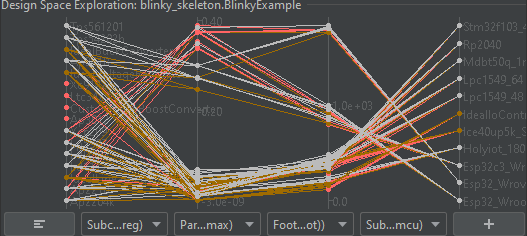
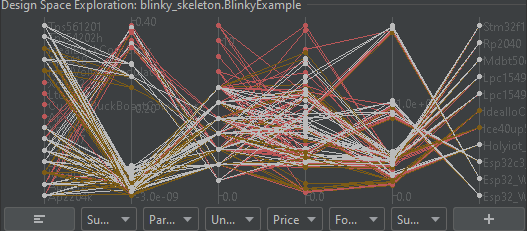
update pcp

diff --git a/getting-started.md b/getting-started.md
@@ -526,10 +526,11 @@ Let's now set up and run the search, and let's actually search through all combi
 2. Add the microcontroller search by **right-clicking the new `mcu` and select Search subclasses of IoController**.
    - Note that this adds a dimension to the search space.
 3. Make sure the footprint area and current draw objective functions are still there.
-4. Then, **re-run the search**.
+4. Add two new objective functions: **right click on the design root, and select Add objective price**. Repeat the same for **Add objective unproven count**.
+5. Then, **re-run the search**.
    - Because it's searching all combinations of regulators and microcontrollers, this may take a while.
    - Even though we previously specified a refinement for voltage regulator, the search configuration takes priority - so this does scan over all voltage regulators
-5. If we **plot the microcontroller and regulator**, we can see which combinations work:  
+6. If we **plot the microcontroller and regulator**, we can see which combinations work:  
    ![Microcontroller and regulator](docs/ide_dse/plot_mcu_vs_reg.png)
 
 > Here, we're plotting the microcontroller and voltage regulator classes, which are non-numeric.
@@ -542,11 +543,17 @@ Parallel coordinates plot is another visualization method commonly used for visu
 Let's use this to examine choices of microcontroller:
 1. **Switch to the parallel coordinates plot using the switch plots button: ![Switch plots button](docs/intellij_icons/toolWindowMessages_dark.svg)**.
 2. The initial plot starts with one axis, but let's plot the regulator, current draw, area, and microcontroller (4 axes).
-   **Add three more axes using the + button**.
-3. **Configure the axes left-to-right as the regulator class, maximum current draw, area, and microcontroller class**.
+   **Add five more axes using the + button**.
+3. **Configure the axes left-to-right as the regulator class, maximum current draw, unproven count, price, area, and microcontroller class**.
    The resulting plot should look like:  
    ![Parallel plot regulator and microcontroller](docs/ide_dse/pcp_vreg_mcu.png)  
    Each individual design is a line, going through the points at the values of each axis.
+   It's definitely a very crowded chart!
+   > _Unproven_ counts the number of unproven blocks (blocks that have not been tested working or fixed) in the design.
+   > Lower is better, since it means fewer blocks are being built in hardware for the first time.
+
+   > _Price_ calculates the total price of components for the design.
+   > This has some limitations: price data may be out of date or incomplete (though missing prices will be logged on the console during a DSE run), and only reflects price of components.
 4. Let's say we want a ESP32, a microcontroller module with built-in WiFi.
    **Select the Esp32_Wroom_32 point on the bottom right** to select all designs going through that point:  
    ![Parallel plot regulator and microcontroller](docs/ide_dse/pcp_vreg_mcu_esp32.png)  
@@ -555,15 +562,18 @@ Let's use this to examine choices of microcontroller:
      This makes sense, WiFi is a power-intensive feature.
    - Because the points on the area axis (third from right) are somewhat high, designs that use this module are fairly large.
      This also makes sense, the module is larger compared to a single chip, but also not as big as the development boards that are at the top of the axis.
+   - There's still a large remaining spread for unproven components and price.
 5. Let's say we want to prioritize power efficiency. **Select the lowest non-ideal (not-brown) point on the current draw axis** to subset the current selection:  
    ![Parallel plot regulator and microcontroller](docs/ide_dse/pcp_vreg_mcu_esp32_idraw.png)
 6. There's still a few design points here, so let's look at the area axis.
    Most of the designs are close together, so **mousewheel over the axis to zoom in**.  
-   ![Parallel plot regulator and microcontroller](docs/ide_dse/pcp_vreg_mcu_esp32_idraw_areasel.png)
+   ![Parallel plot regulator and microcontroller](docs/ide_dse/pcp_vreg_mcu_esp32_idraw_area.png)
 7. Zoomed in, we can differentiate the points better.
    If we arbitrarily pick the lowest area one, which once again turns out to be the Ap3418-based regulator.
-   Let's choose that point for our design, **right-click the point and select Insert refinements**.  
+   From its points through the other axes, this is also the design with the lowest design risk (fewest unproven parts) and relatively low price (compared to other feasible designs).
+   Let's choose this design, **right-click the point and select Insert refinements**.  
    ![Parallel plot regulator and microcontroller](docs/ide_dse/pcp_vreg_mcu_esp32_idraw_area_insertrefinement.png)
+   The right-click menu also displays more information about that particular point.
 8. The refinements block should update with the new choices:
    ```python
    def refinements(self) -> Refinements:
